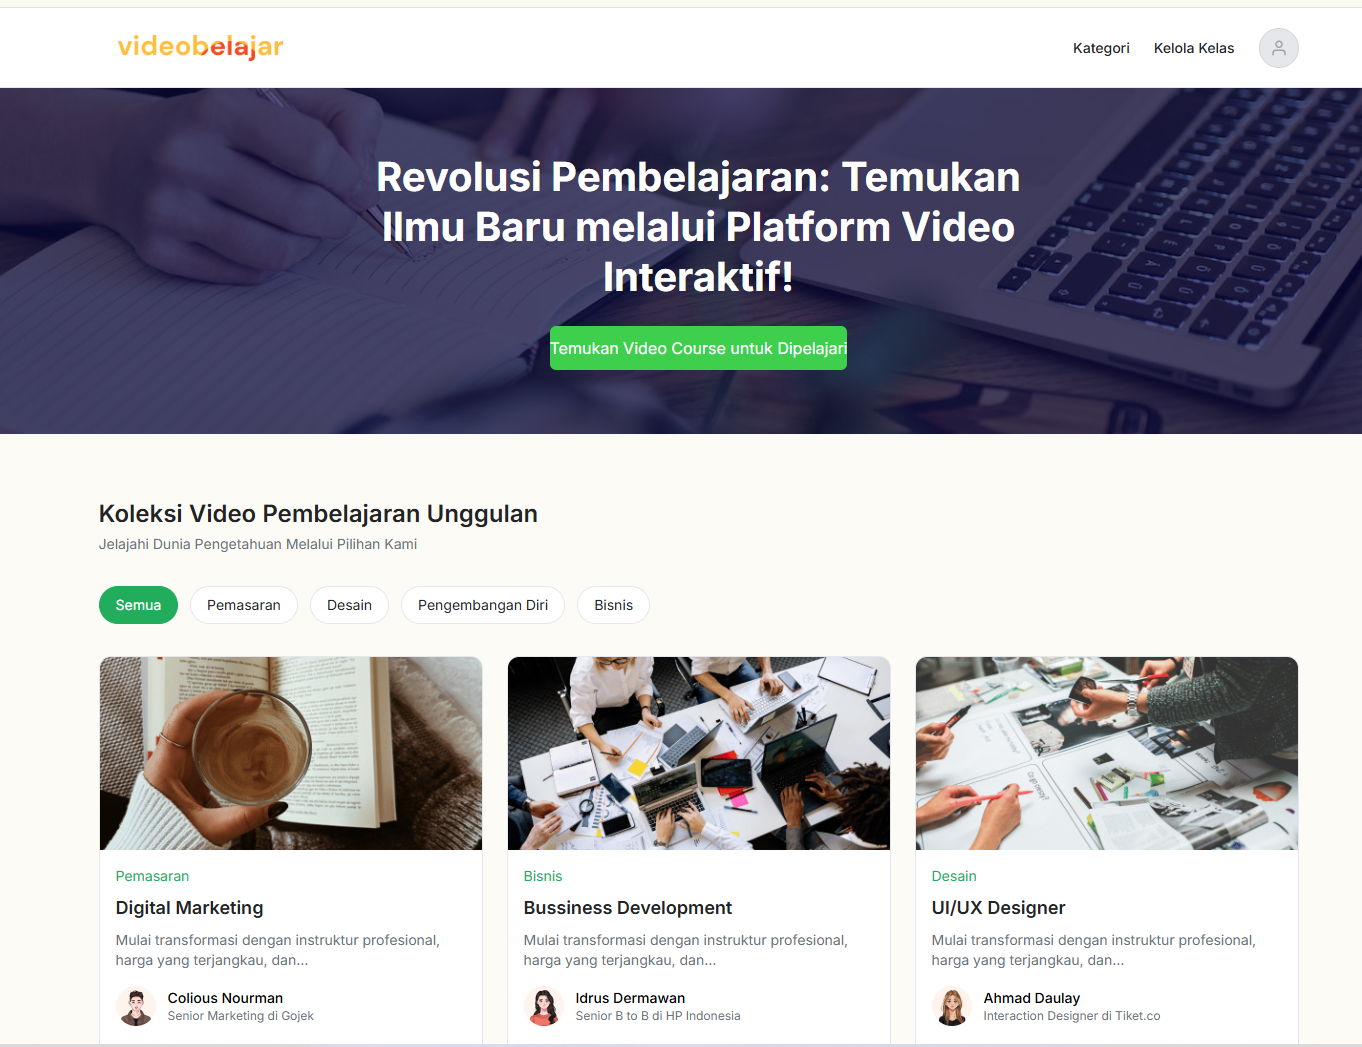
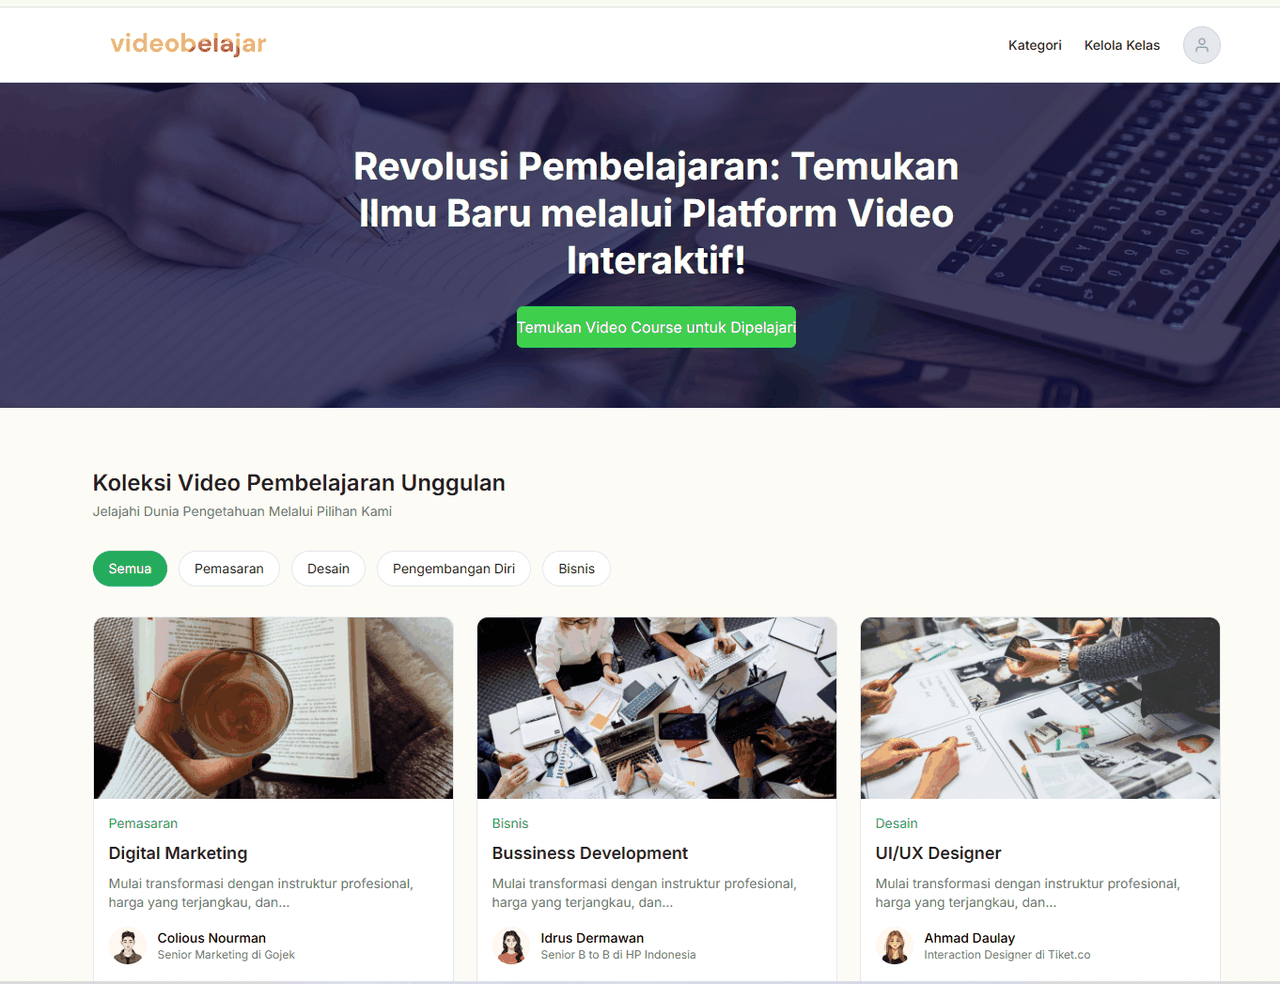
fix thumbnail projects & button

diff --git a/public/css/style.css b/public/css/style.css
@@ -10,7 +10,6 @@ h1,h2,h5{font-family:Inter,sans-serif}
 .rule{flex:1;height:1px;background:var(--line)}
 .viewall{font-size:11px;letter-spacing:1px;color:var(--dim)}.viewall:hover{color:var(--red2)}
 
-
 .hero{position:relative;min-height:100vh;overflow:hidden;background:radial-gradient(ellipse at 60% 30%,#2a0507 0%,#080808 65%)}
 .topbar{position:relative;z-index:5;max-width:var(--wrap);margin:0 auto;padding:22px 24px;display:flex;justify-content:space-between;align-items:center;border-bottom:1px solid var(--line);font-size:11px;letter-spacing:1px}
 .brand b{display:block;color:var(--red2);font-weight:600}.brand span{color:var(--text)}
@@ -34,19 +33,19 @@ h1,h2,h5{font-family:Inter,sans-serif}
 .stat b{font-family:Anton,sans-serif;font-weight:400;font-size:34px;color:var(--red2);min-width:78px}
 .stat span{font-size:10px;letter-spacing:1.2px;color:var(--dim);text-transform:uppercase}
 
-
 .block{padding-top:60px;padding-bottom:60px}
 .proj-grid{display:grid;grid-template-columns:repeat(auto-fit,minmax(260px,1fr));gap:22px}
 .proj{cursor:pointer}
-.proj-cover{height:190px;border:1px solid #2b2b2b;display:grid;place-items:center;font-size:64px;position:relative;overflow:hidden}
+.proj-cover{aspect-ratio:16/9;border:1px solid #2b2b2b;display:grid;place-items:center;font-size:64px;position:relative;overflow:hidden;background-color:#222}
 .proj-cover::after{content:"";position:absolute;inset:0;background:linear-gradient(180deg,transparent 40%,rgba(0,0,0,.65))}
+.proj-cover img{position:absolute;inset:0;width:100%;height:100%;object-fit:cover;object-position:top;z-index:1;transition:transform .35s}
+.proj:hover .proj-cover img{transform:scale(1.04)}
 .proj-row{display:flex;align-items:center;gap:14px;margin-top:14px}
 .proj-row .n{font-family:Anton,sans-serif;font-size:34px;color:var(--red2)}
 .proj-row div{flex:1}.proj-row b{display:block;font-size:12px;letter-spacing:1px;text-transform:uppercase}
 .proj-row small{color:var(--dim);font-size:11px;letter-spacing:.5px}
 .proj-row .arr{color:var(--dim);font-size:20px;transition:.2s}.proj:hover .arr{color:var(--red2);transform:translateX(4px)}
 .proj:hover .proj-cover{border-color:var(--red)}
-
 
 .trio{display:grid;grid-template-columns:1.1fr 1fr 300px;border-top:1px solid var(--line);border-bottom:1px solid var(--line);max-width:none;padding:0}
 .trio>*{padding:44px 32px}.col+.col{border-left:1px solid var(--line)}
@@ -70,9 +69,7 @@ h1,h2,h5{font-family:Inter,sans-serif}
 .sign{font-family:Allura,cursive;font-size:38px}
 .quote small{font-size:10px;letter-spacing:1.2px;color:#ffb3b3;margin-top:40px}
 
-
 .about p{max-width:820px;color:#cfcfcf;font-size:16px}
-
 
 .contact{display:grid;grid-template-columns:1fr 1fr 1fr;gap:40px;padding-top:56px;padding-bottom:56px;align-items:start}
 .c-intro h2{font-size:30px;line-height:1.1;font-weight:700}.c-intro h2 i{color:var(--red2);font-style:normal;font-size:16px}
@@ -88,7 +85,6 @@ h1,h2,h5{font-family:Inter,sans-serif}
 .form-status{font-size:12px;min-height:16px}.form-status.ok{color:#5fd18a}.form-status.err{color:#ff7a7a}
 .footer{padding-top:22px;padding-bottom:30px;border-top:1px solid var(--line);font-size:11px;color:var(--dim)}
 
-
 .modal-backdrop{position:fixed;inset:0;background:rgba(0,0,0,.8);display:none;place-items:center;z-index:50;padding:20px}
 .modal-backdrop.open{display:grid}
 .modal{background:#111;border:1px solid var(--line);max-width:560px;width:100%;position:relative;max-height:90vh;overflow:auto}
@@ -98,7 +94,6 @@ h1,h2,h5{font-family:Inter,sans-serif}
 .modal-body h3{margin:6px 0 10px;font-size:22px}.modal-body p{color:#cfcfcf;font-size:14px}
 .modal-tags{display:flex;flex-wrap:wrap;gap:6px;margin:14px 0}.project-tag{border:1px solid #333;padding:3px 9px;font-size:10px;letter-spacing:1px;color:#bbb}
 .modal-links{display:flex;gap:10px}.modal-links a{background:var(--red);padding:8px 14px;font-size:12px}
-
 
 @media(max-width:980px){
   .topnav{display:none}
@@ -112,5 +107,7 @@ h1,h2,h5{font-family:Inter,sans-serif}
   .trio{grid-template-columns:1fr}.col+.col,.quote{border-left:0;border-top:1px solid var(--line)}
   .trio>*,.trio .col:first-child{padding:36px 24px}
   .contact{grid-template-columns:1fr}
-  .proj-cover img{position:absolute;inset:0;width:100%;height:100%;object-fit:cover;object-position:top;z-index:1}
 }
+.btn-row{display:flex;flex-wrap:wrap;gap:12px;margin-top:24px}
+.red-btn{display:inline-block;background:var(--red);color:#fff;padding:13px 24px;font-size:13px;font-weight:600;letter-spacing:.5px;text-align:center;transition:background .2s}
+.red-btn:hover{background:var(--red2)}

diff --git a/public/js/main.js b/public/js/main.js
@@ -52,16 +52,16 @@
     renderStats();
     $('#projectGrid').innerHTML = state.projects.map((p, i) => `
       <article class="proj" data-slug="${esc(p.slug)}">
-       <div class="proj-cover" style="background:${p.cover_gradient || '#222'}">${p.cover_emoji || '💻'}<img src="/assets/projects/${esc(p.slug)}.png" alt="" onerror="this.remove()"></div>
+        <div class="proj-cover" style="background:${p.cover_gradient || '#222'}">${p.cover_emoji || '💻'}<img src="/assets/projects/${esc(p.slug)}.png" alt="${esc(p.title)}" loading="lazy" onerror="this.remove()"></div>
         <div class="proj-row"><span class="n">${String(i + 1).padStart(2, '0')}</span>
           <div><b>${esc(p.title)}</b><small>${esc((p.tags || []).join(' · '))}</small></div>
           <span class="arr">→</span></div>
-      </article>`).join('');document.querySelectorAll('.proj').forEach(c => c.addEventListener('click', () => {
-  const p = state.projects.find(x => x.slug === c.dataset.slug);
-  if (p && p.live_url) window.open(p.live_url, '_blank', 'noopener');
-  else openModal(c.dataset.slug);
-}));
-
+      </article>`).join('');
+    document.querySelectorAll('.proj').forEach(c => c.addEventListener('click', () => {
+      const p = state.projects.find(x => x.slug === c.dataset.slug);
+      if (p && p.live_url) window.open(p.live_url, '_blank', 'noopener');
+      else openModal(c.dataset.slug);
+    }));
   }).catch(() => { $('#projectGrid').innerHTML = '<p style="color:#9a9a9a">Projects could not be loaded. Please refresh the page.</p>'; });
 
   const backdrop = $('#modalBackdrop');
@@ -84,7 +84,7 @@
   backdrop.addEventListener('click', e => { if (e.target === backdrop) closeModal(); });
   document.addEventListener('keydown', e => { if (e.key === 'Escape') closeModal(); });
 
-    const FORM_ENDPOINT = 'https://formspree.io/f/xqpaojjn';
+  const FORM_ENDPOINT = 'https://formspree.io/f/xqpaojjn';
   const form = $('#contactForm'), status = $('#formStatus'), btn = $('#submitBtn');
   form.addEventListener('submit', async (e) => {
     e.preventDefault(); status.textContent = ''; status.className = 'form-status';

diff --git a/public/index.html b/public/index.html
@@ -73,9 +73,11 @@
     <div class="c-intro">
       <h2>LET'S WORK<br>TOGETHER <i>✦</i></h2>
       <p>I'm open to projects, collaborations, and new job opportunities. Let's create something impactful together.</p>
+      <div class="btn-row">
+        <a class="red-btn" href="/assets/CV-Fariz.pdf" target="_blank" rel="noopener">View CV ↗</a>
+        <a class="red-btn" href="/assets/Certificate-career.pdf" target="_blank" rel="noopener">View Certificate ↗</a>
+      </div>
     </div>
- <a class="cv-btn" href="/assets/CV-Fariz.pdf" target="_blank" rel="noopener">View CV ↗</a>
- <a class="cv-btn" href="/assets/Certificate-career.pdf" target="_blank" rel="noopener">View Certificate ↗</a>
     <div class="c-links" id="contactLinks"></div>
     <form class="c-form" id="contactForm" novalidate>
       <input type="text" id="name" placeholder="Name" required>
